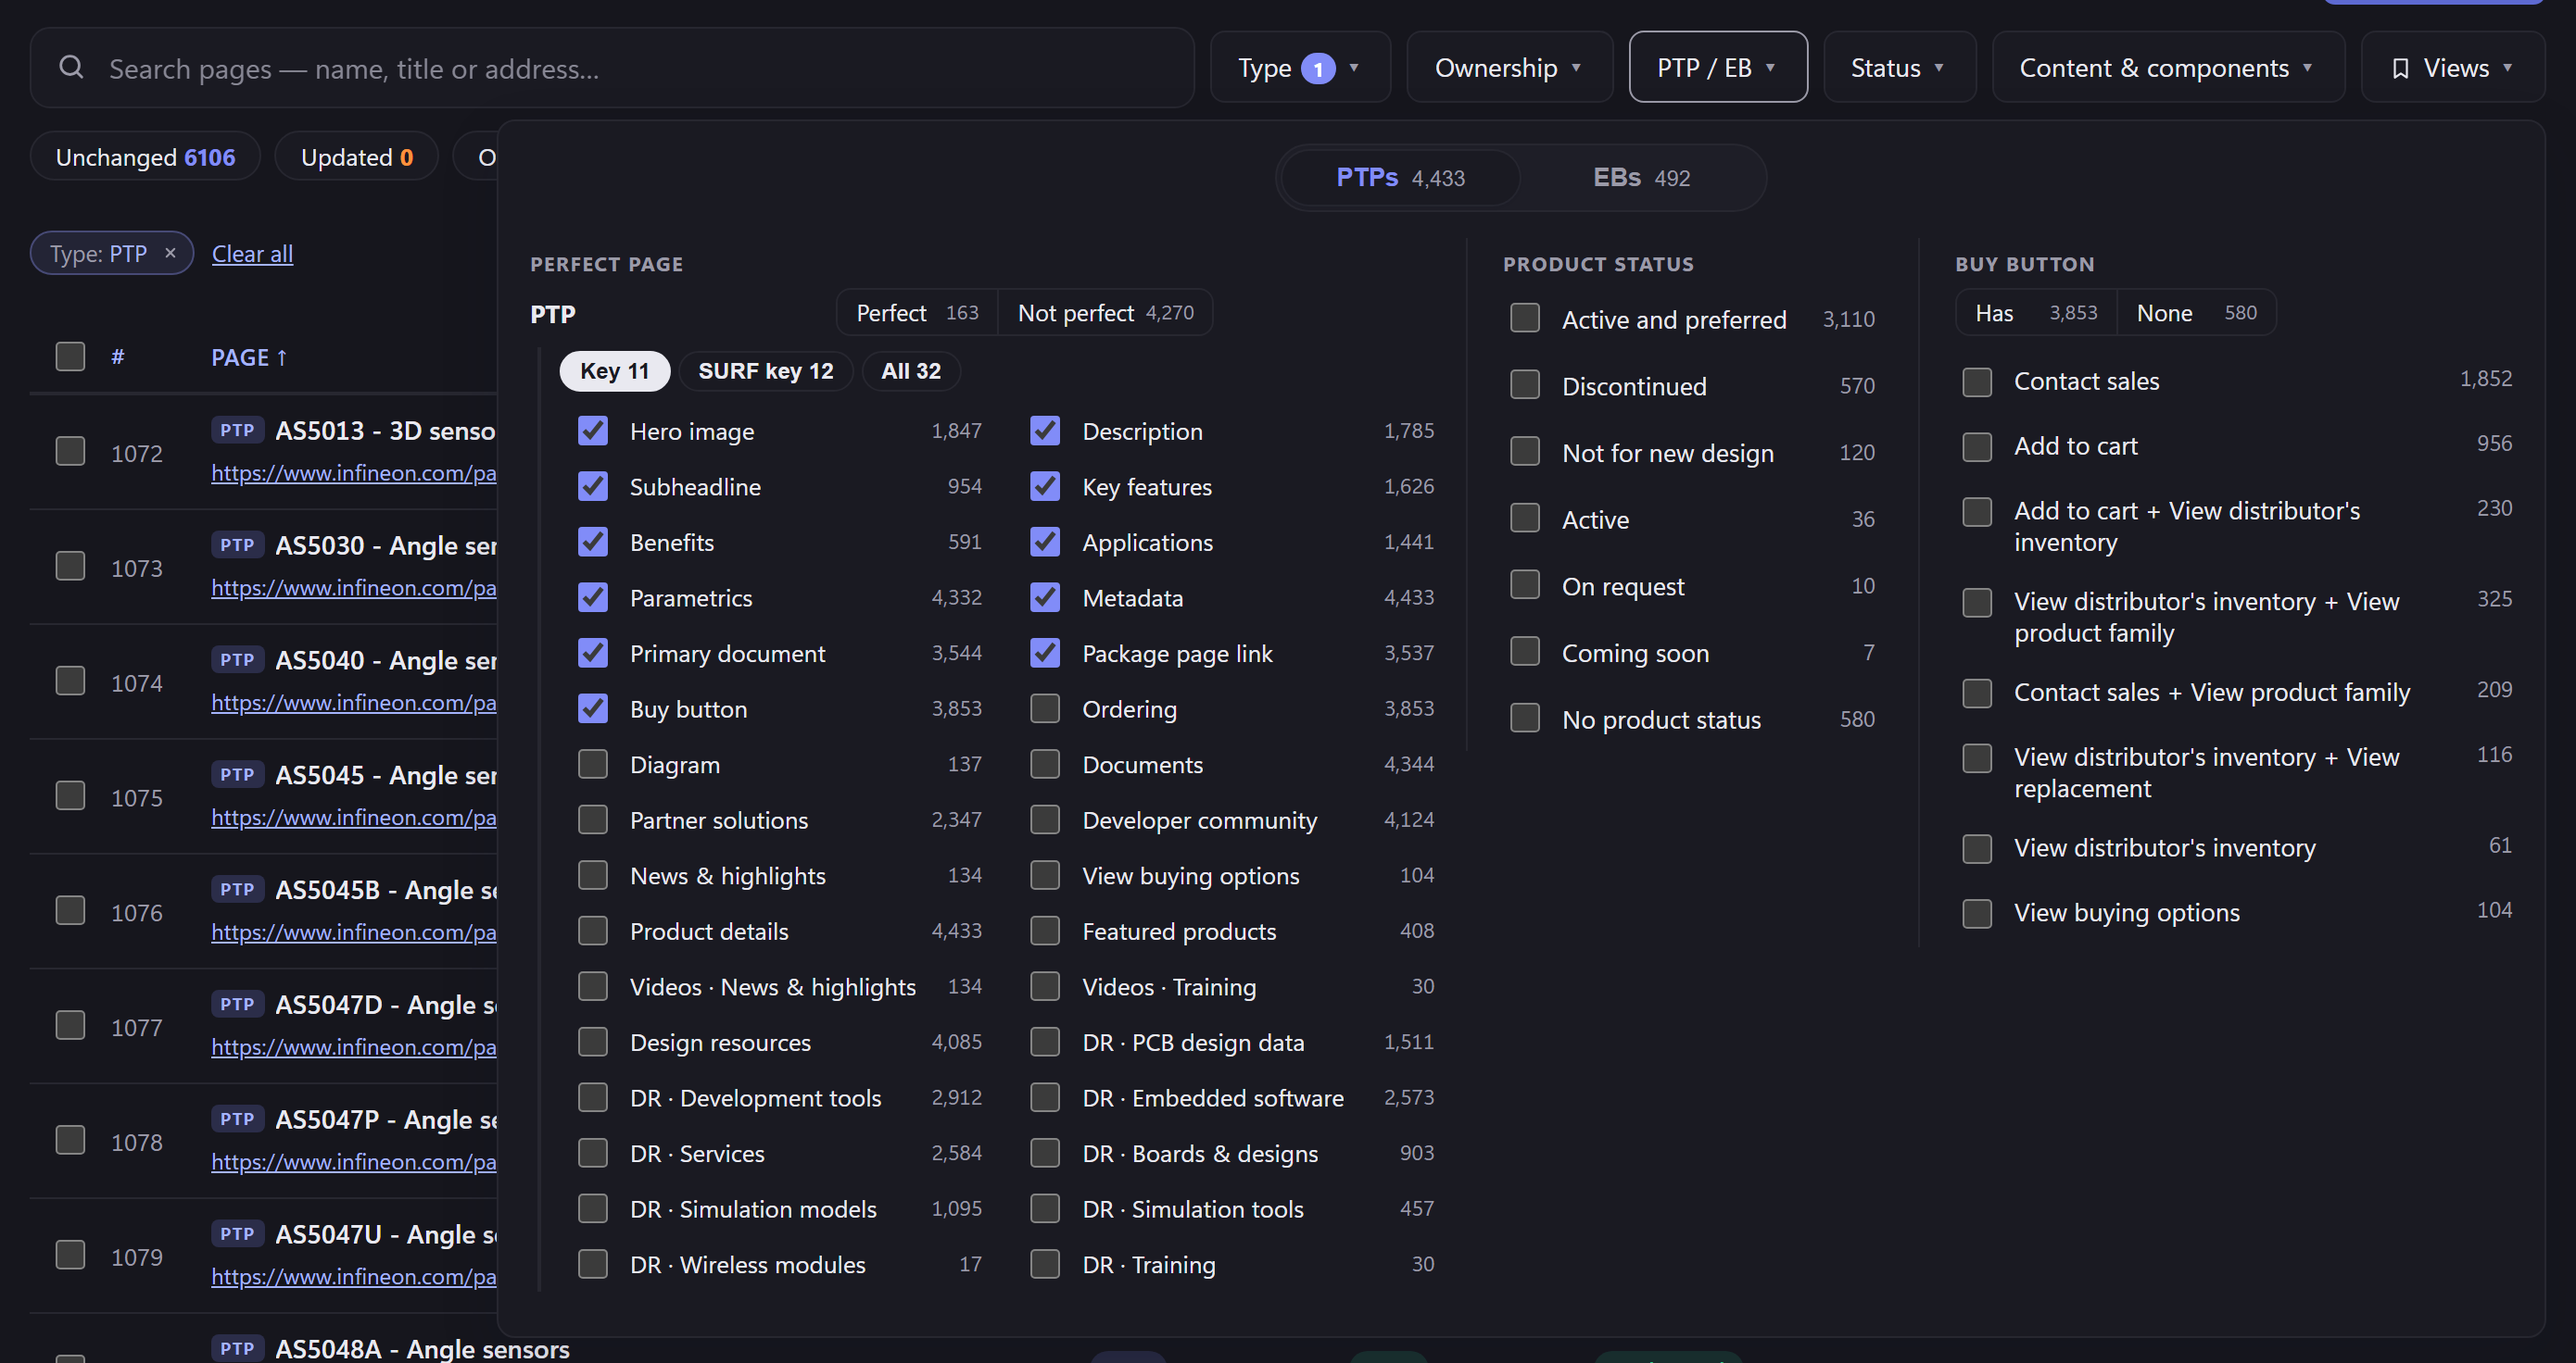
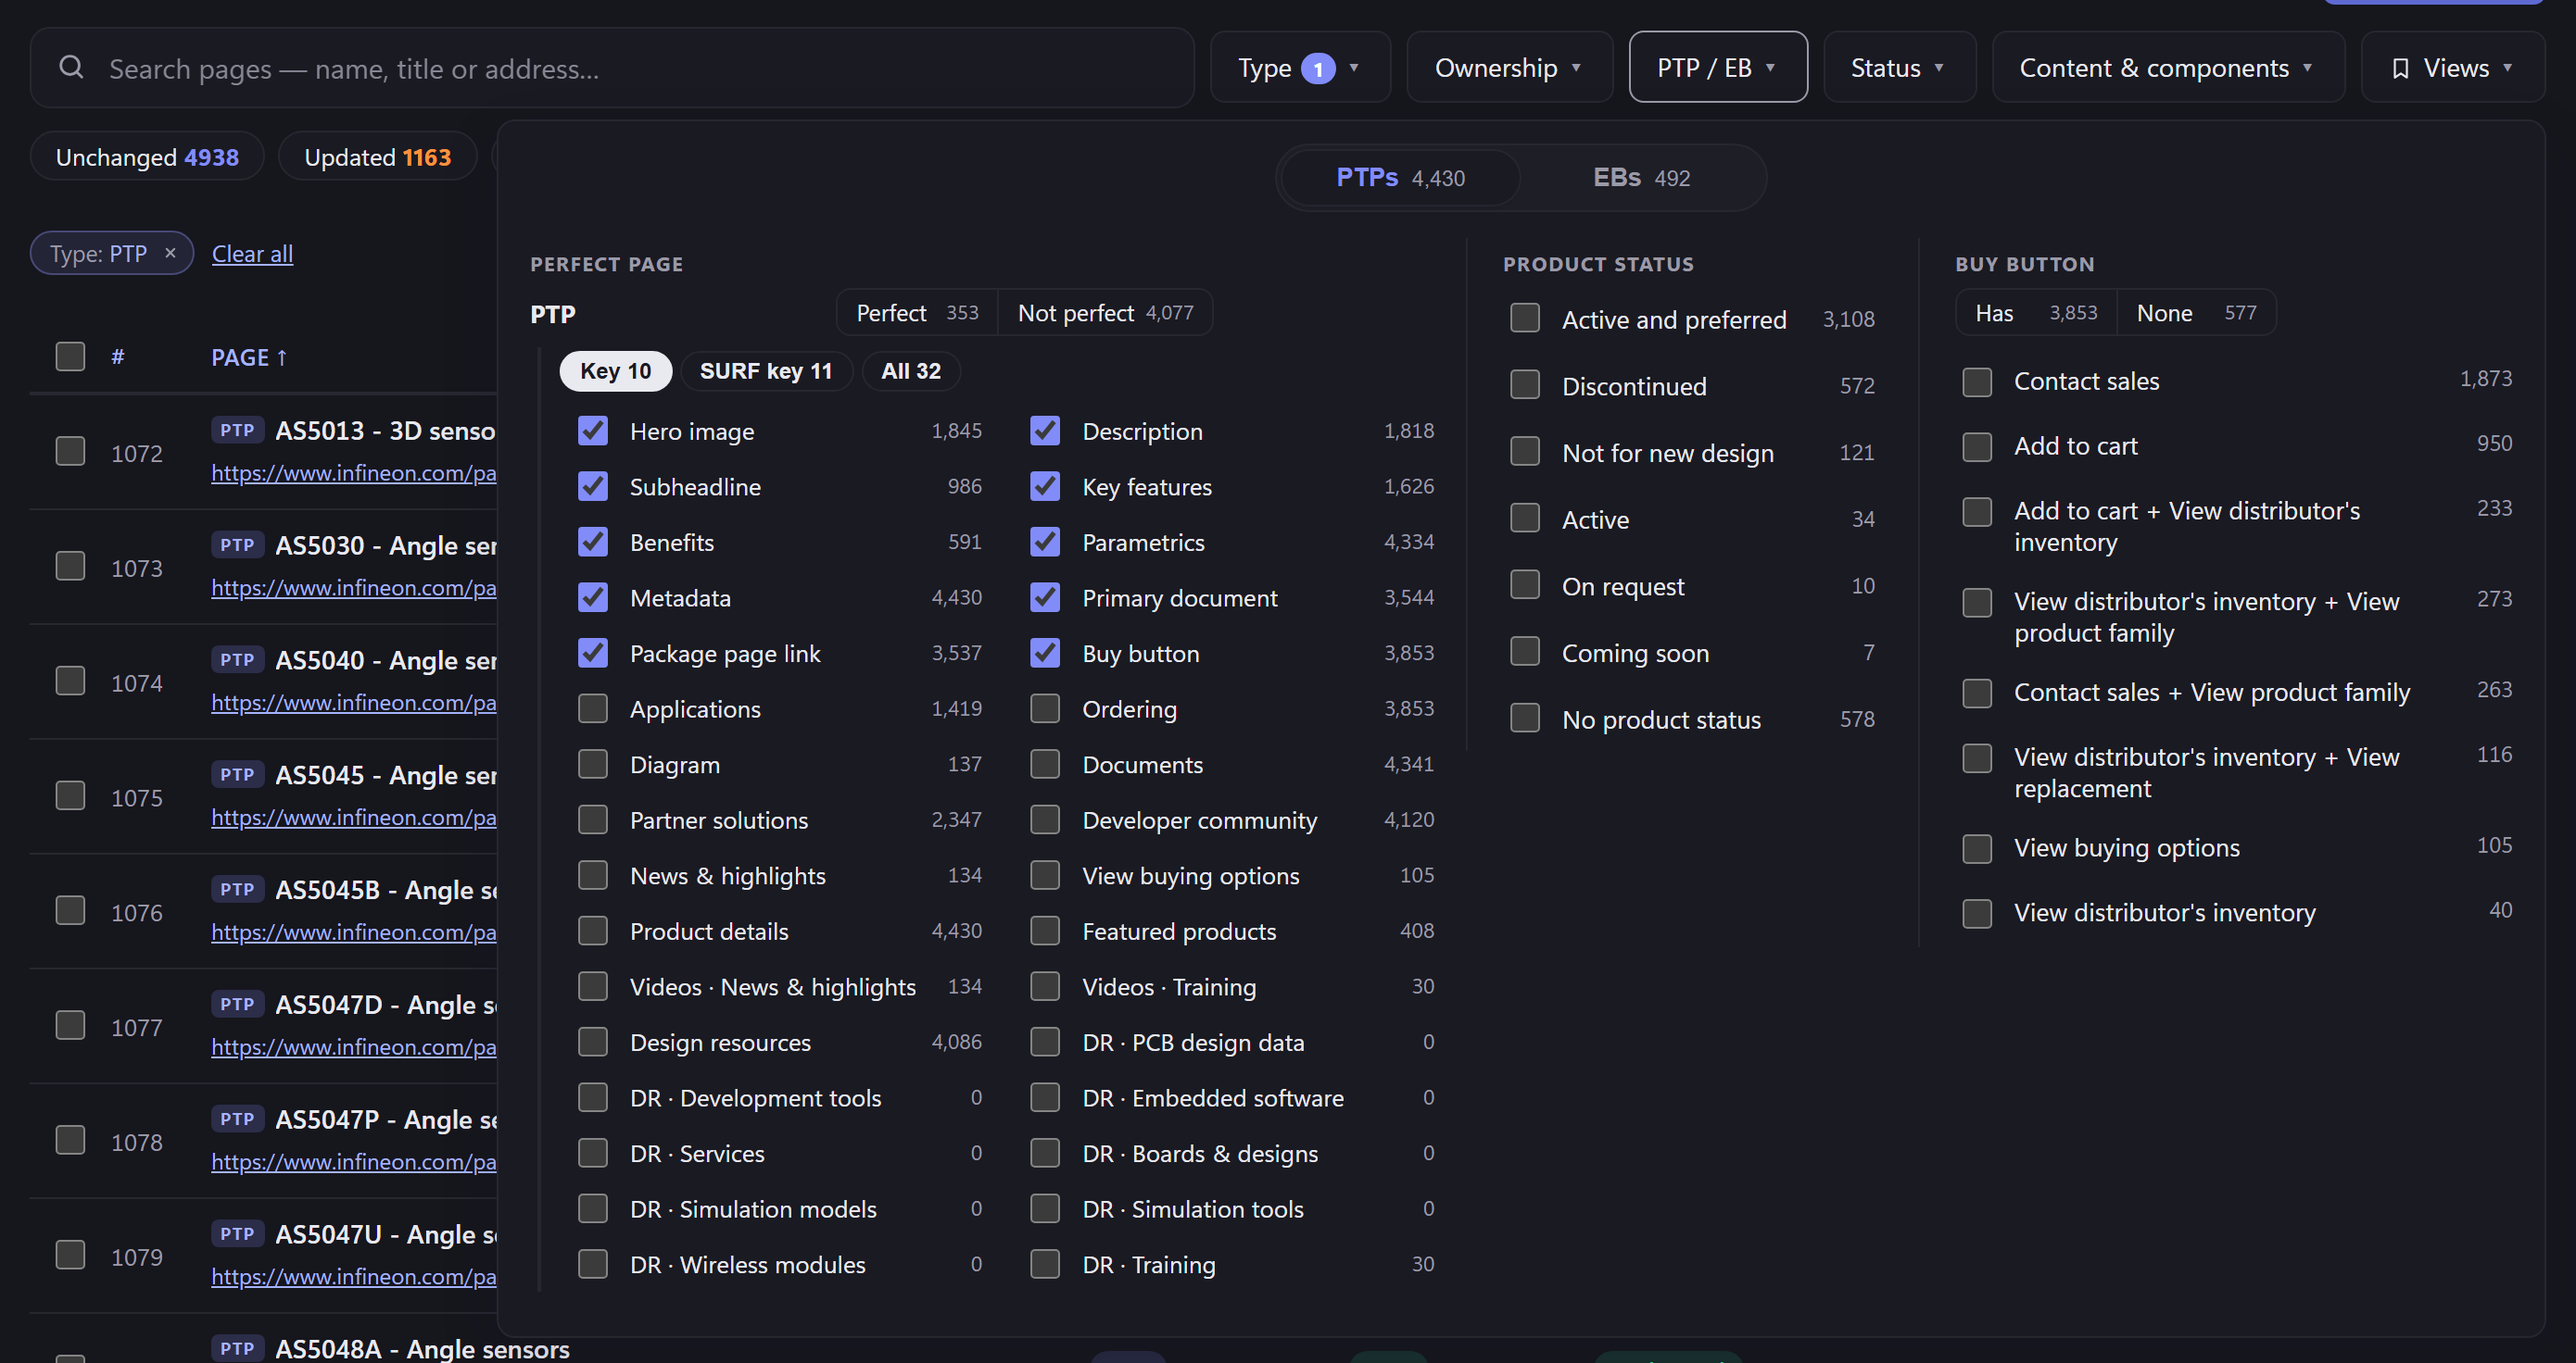
Capture: Design resources tab flags read the item's group (were 0 in every tab since 18 Nov); Guide pictures show Key 10

diff --git a/iradar/capture.py b/iradar/capture.py
@@ -3224,6 +3224,8 @@ async def capture_one(browser, url, out_dir):
         # built with one query instead of opening 4,145 snapshot files
         result["breadcrumb"] = [b for b in sections.get("breadcrumb", [])
                                 if isinstance(b, dict) and b.get("title")]
+        # (the item's tab is its "group" - read as "grp", the database column's
+        # name, every capture from 18 to 25 Nov 2026 counted 0 in every tab)
         # Design resources, tab by tab: each tab (PCB design data - the SURF
         # extra of the perfect-page standard - Development tools, Embedded
         # software ...) is a component, there when the tab holds an item
@@ -3233,7 +3235,7 @@ async def capture_one(browser, url, out_dir):
                 _n = (len(sections.get("trainings") or []) if _tab is None else
                       sum(1 for it in sections.get("design_resources") or []
                           if isinstance(it, dict)
-                          and (it.get("grp") or "").strip().lower() == _tab))
+                          and (it.get("group") or "").strip().lower() == _tab))
                 _fl[_block] = {"exists": _n > 0, "has_content": _n > 0, "count": _n}
         except Exception:
             pass
